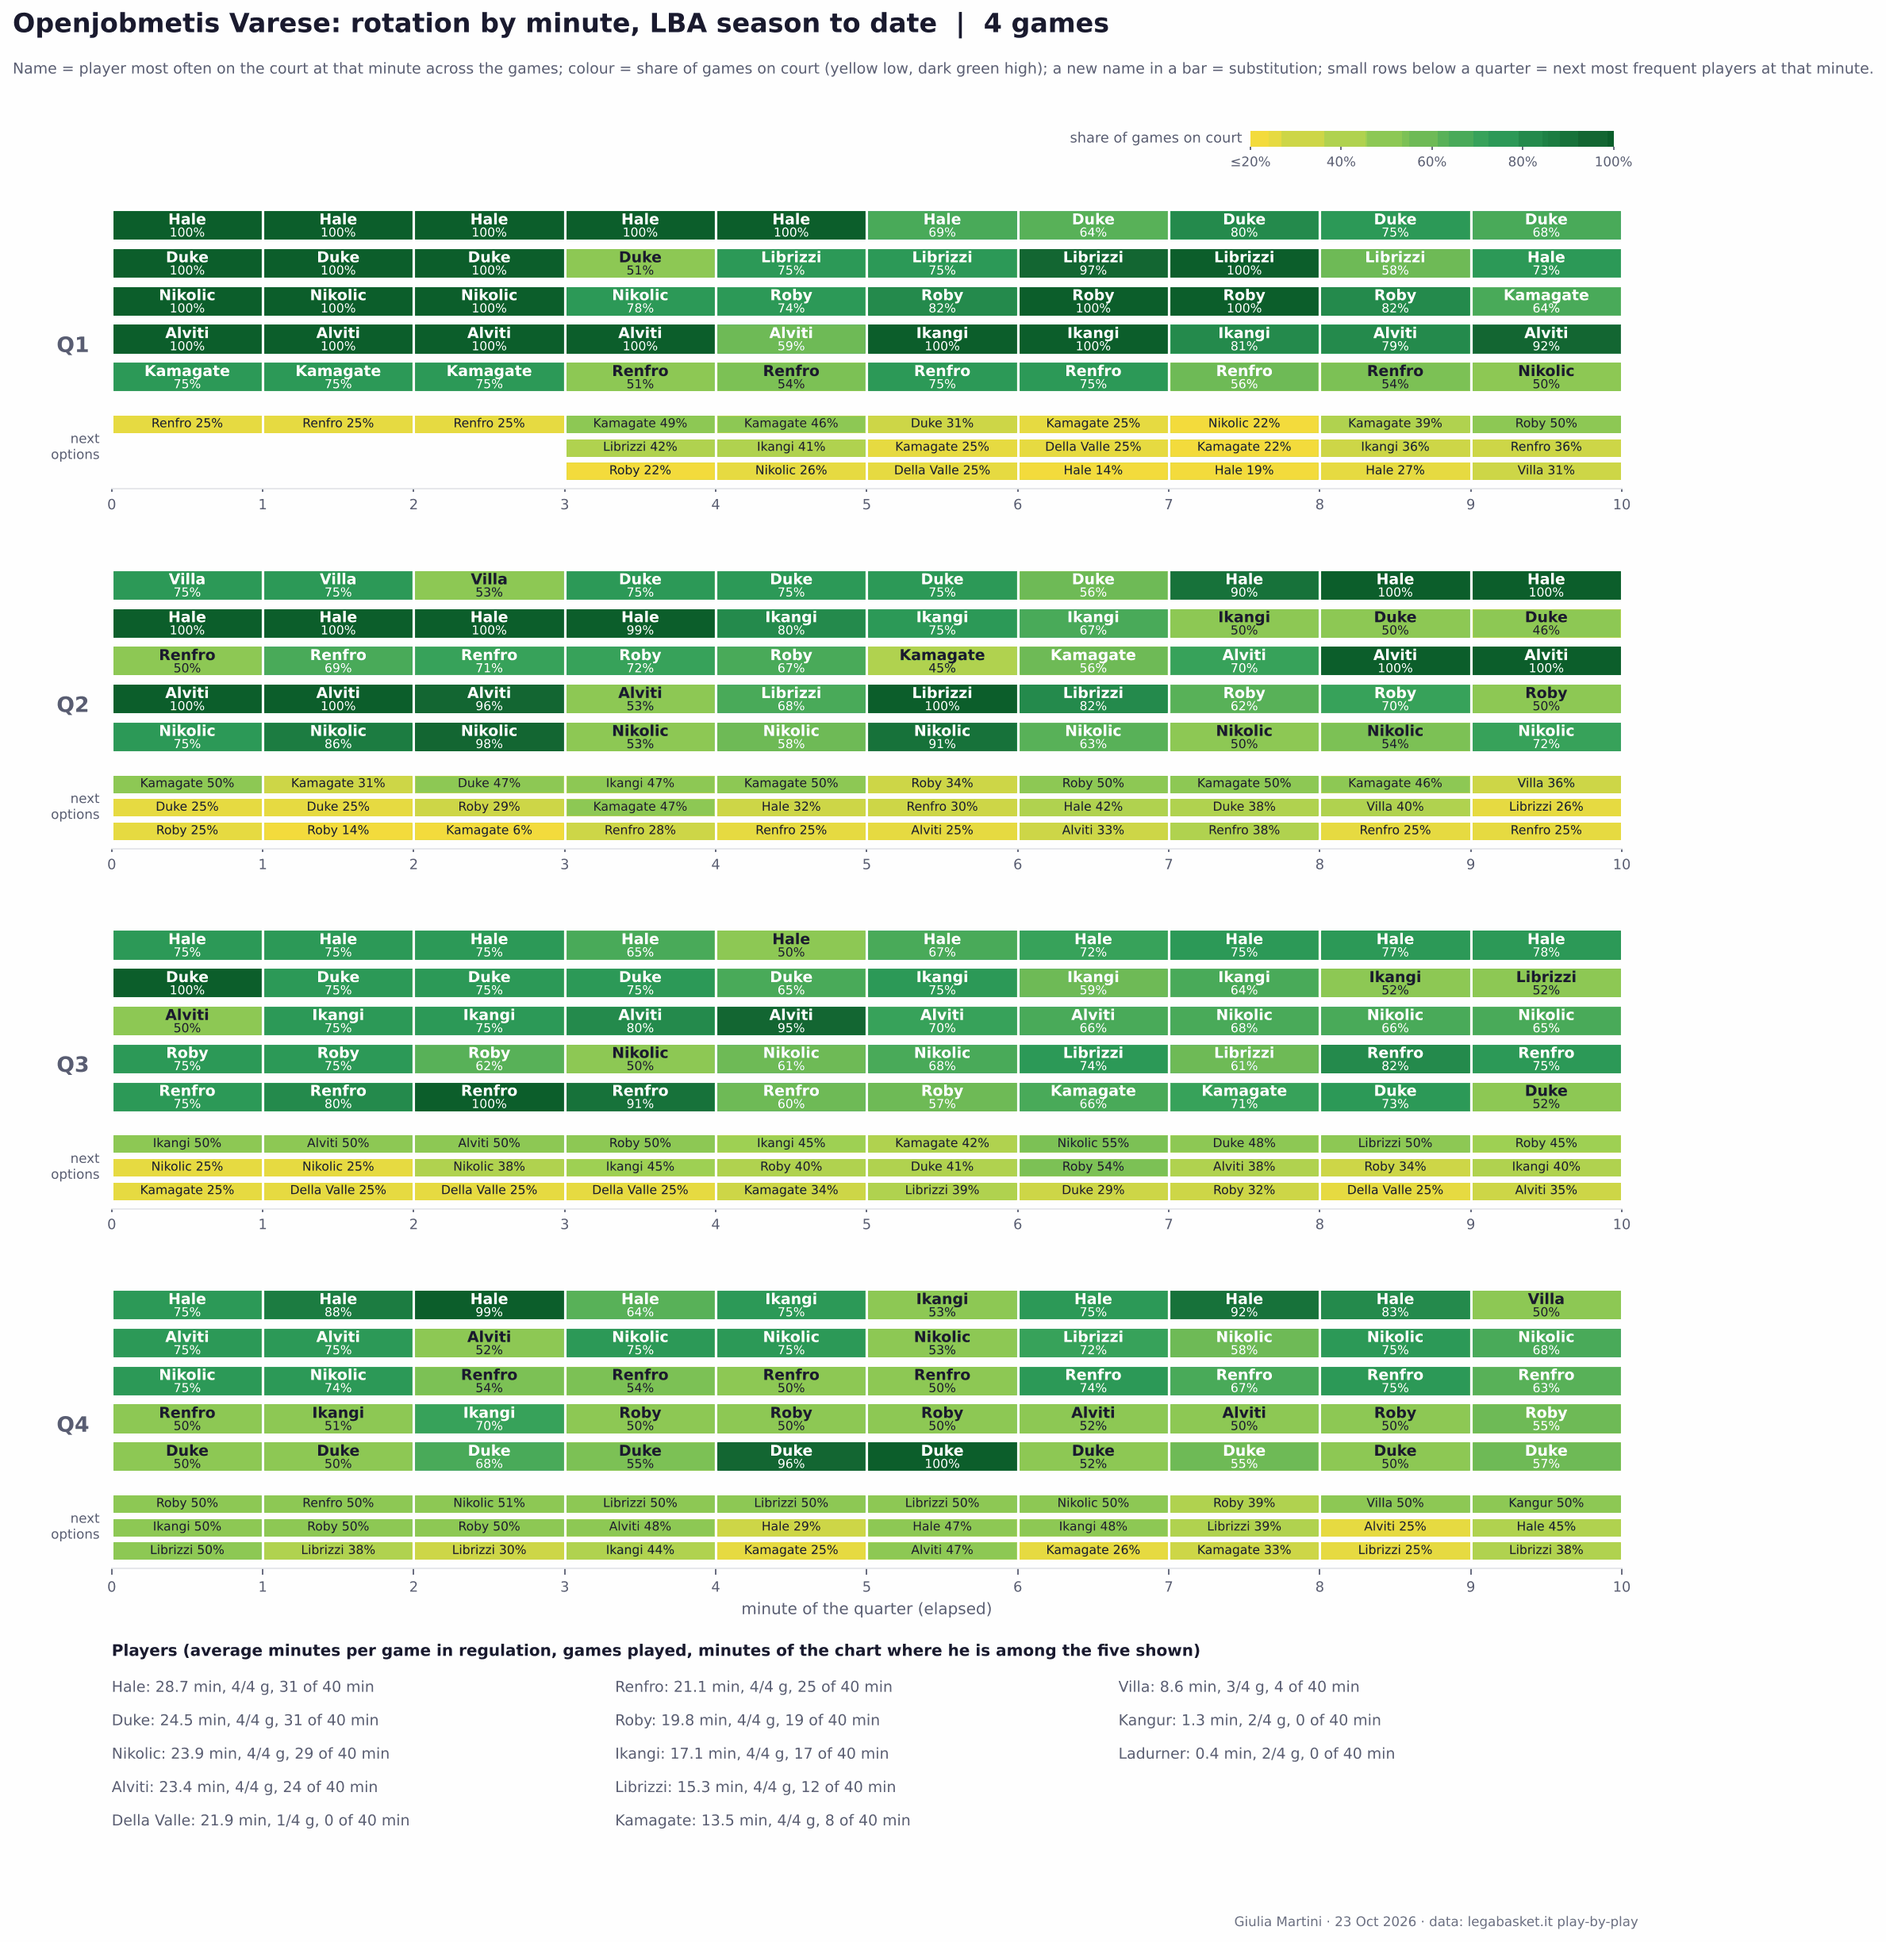
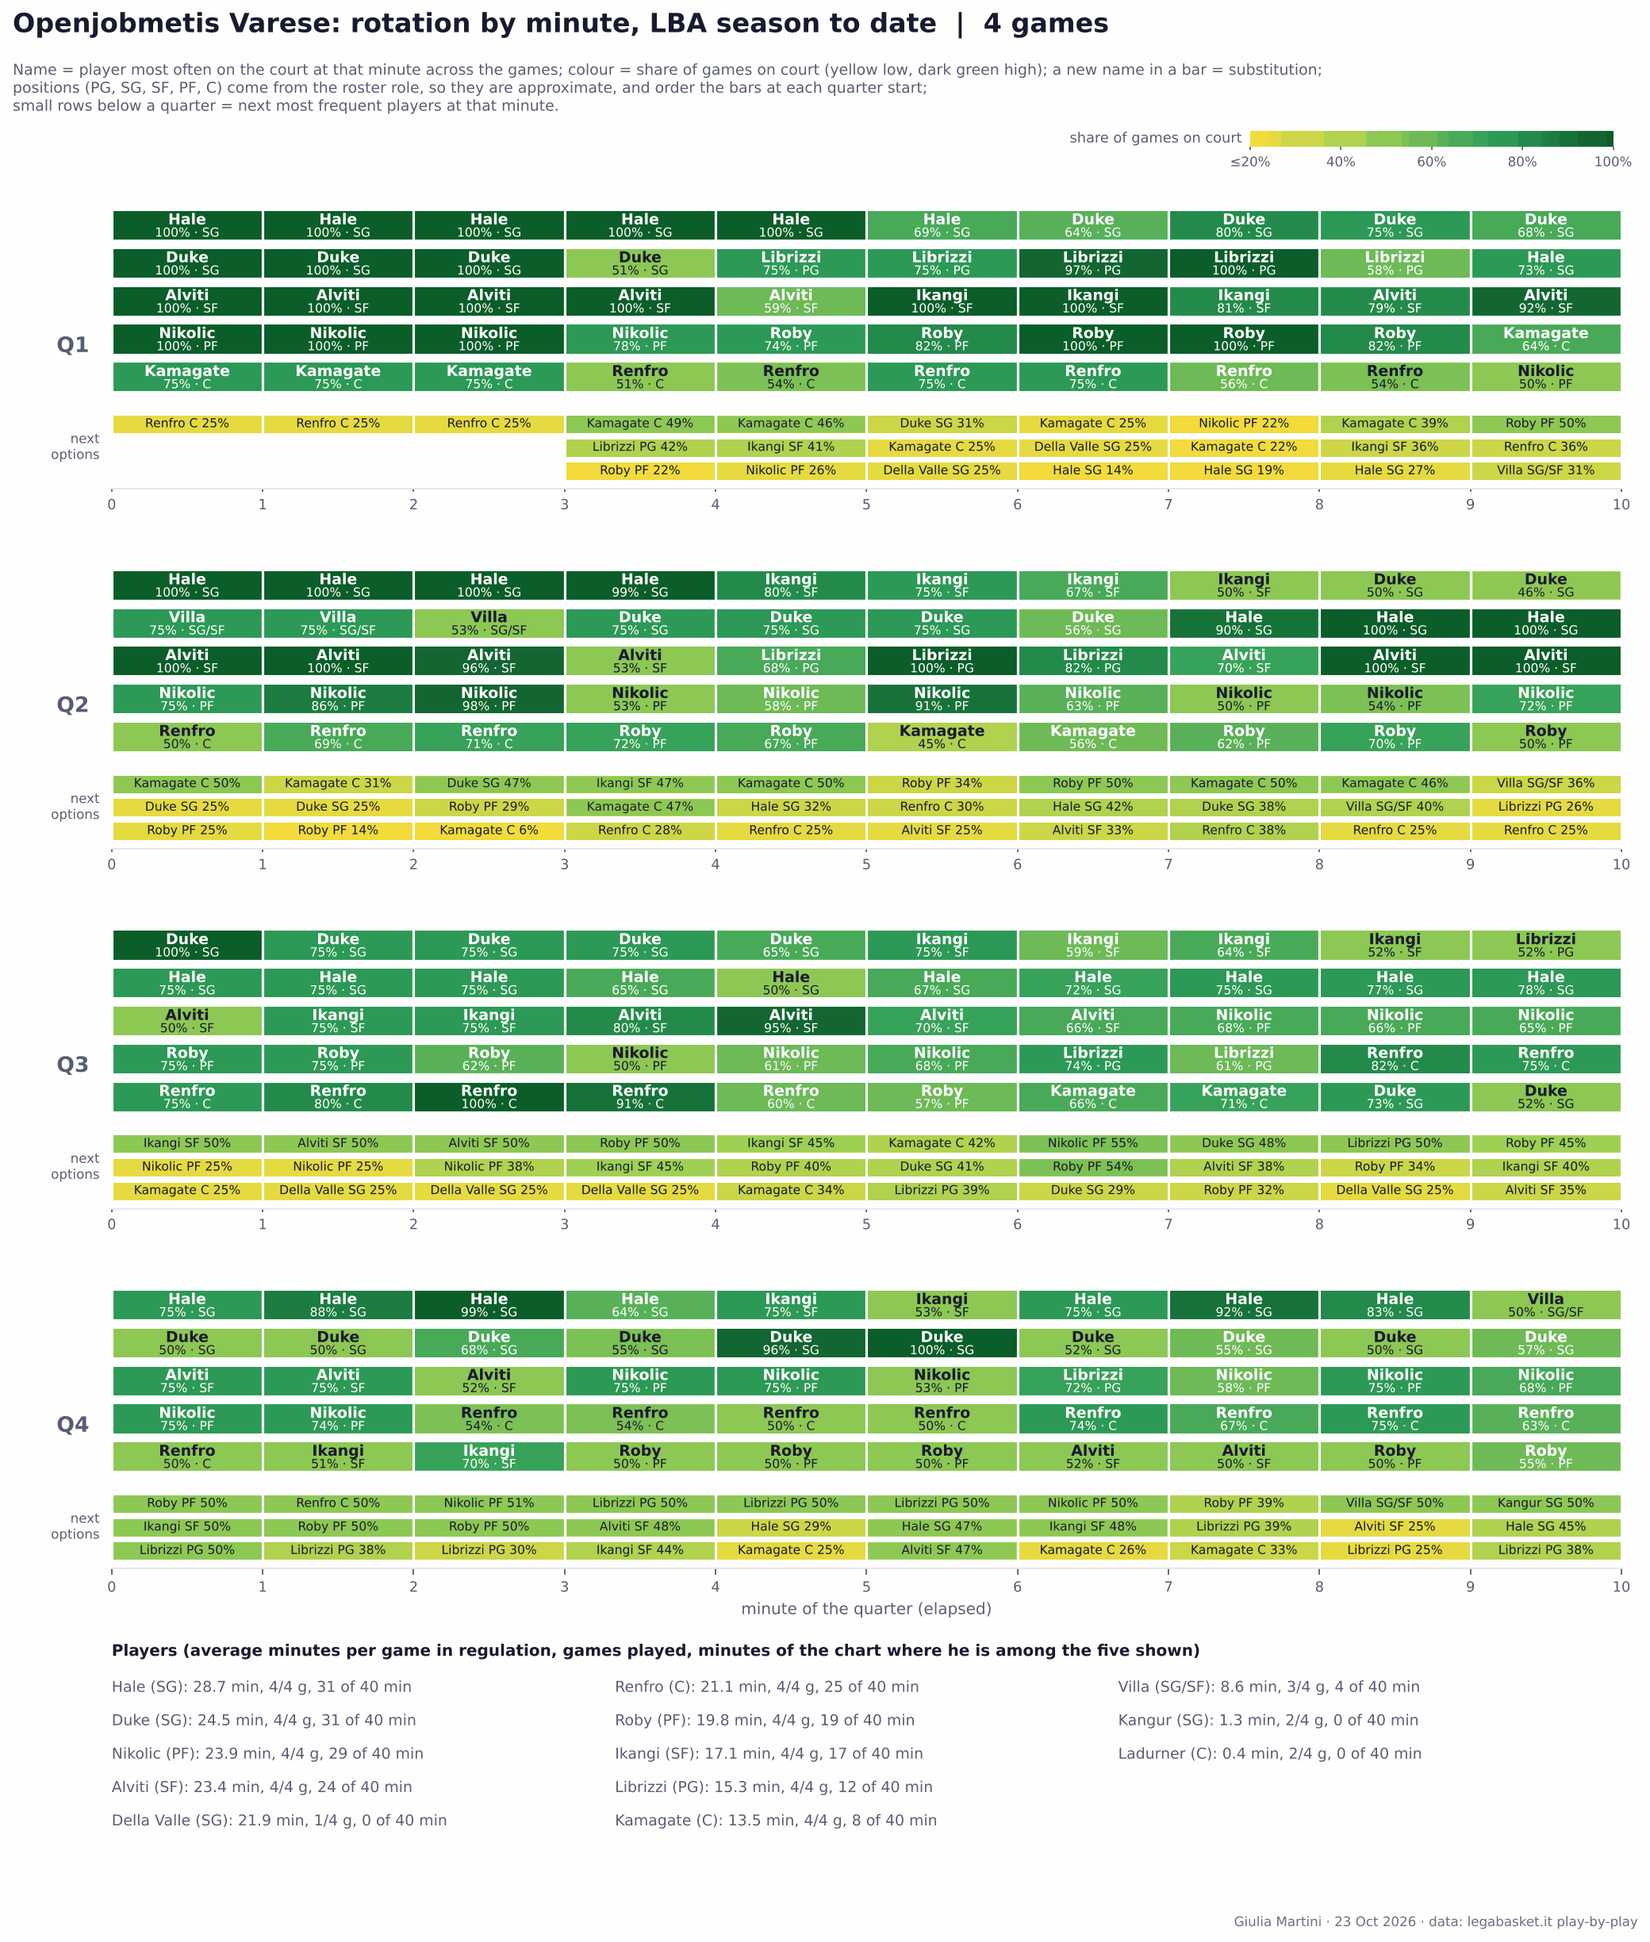
Rotation chart: show positions and order the bars PG-SG-SF-PF-C at each quarter start
Claude-Session: https://claude.ai/code/session_019eaYPmq1qXWDi1N8UtmjHE

diff --git a/notebooks/rotation_report.py b/notebooks/rotation_report.py
@@ -14,6 +14,7 @@ from __future__ import annotations
 
 import argparse
 from pathlib import Path
+import unicodedata
 
 import matplotlib.pyplot as plt
 import numpy as np
@@ -24,6 +25,7 @@ from matplotlib.colors import LinearSegmentedColormap, Normalize
 import lba_style
 from game_report import PERIOD_LEN, stints
 from lba_style import SUP_KW, TEXT, TEXT2, save_fig
+from weekly_sections import ec_people
 from weekly_config import ROOT
 
 DATA = ROOT / "data"
@@ -42,9 +44,17 @@ DARK_TEXT_BELOW = 0.55                 # share under which cells are light enoug
 CELL_EDGE = "#ffffff"
 LANE_HEIGHT = 0.82
 PANEL_INCHES_PER_UNIT = 0.41           # inches per lane-height unit of a quarter panel
+OPTION_LONG_LABEL = 22                 # option labels at least this long get a smaller font
 OPTIONS = 3                            # default number of next-most-frequent players shown under each minute
 OPTION_GAP, OPTION_STEP, OPTION_HEIGHT = 0.3, 0.62, 0.52   # lane-height units: gap under the lanes, row pitch, cell height
 FIG_WIDTH = 13
+POSITIONS = ["PG", "SG", "SF", "PF", "C"]   # order of the bars at the start of every quarter
+# The data only has coarse roles (LBA: Playmaker, Guardia, Ala, Centro and mixes; EuroCup: Guard, Forward, Center),
+# so the five positions are an approximation: an "Ala"/Forward is a PF from this height, a EuroCup Guard a PG below the other one.
+LBA_ROLE = {"Playmaker": "PG", "Play/Guardia": "PG/SG", "Guardia": "SG", "Guardia/Ala": "SG/SF", "Ala/Centro": "PF/C", "Centro": "C"}
+EC_ROLE = {"Center": "C"}
+FORWARD_PF_FROM_CM = 203               # "Ala" / "Forward" at least this tall is a PF, shorter a SF
+GUARD_PG_BELOW_CM = 190                # EuroCup "Guard" shorter than this is a PG, taller a SG
 LIST_COLUMNS = 3                       # columns of the player list under the chart
 
 
@@ -78,17 +88,65 @@ def minute_presence(box: pd.DataFrame, pbp: pd.DataFrame, team: str) -> tuple[pd
     return share, avg, n
 
 
-def assign_lanes(share: pd.DataFrame) -> list[list[tuple[str, float]]]:
+def position_rank(label: str | None) -> int:
+    """Sort key of a position label ("PG/SG" sorts as PG); players without a position go last."""
+    return POSITIONS.index(label.split("/")[0]) if label else len(POSITIONS)
+
+
+def load_positions(data: Path, team: str, competition: str, players: list[str]) -> dict[str, str]:
+    """Position label (PG, SG, SF, PF, C or a mix such as "PG/SG") of each player, from the roster files.
+
+    Args:
+        data: Folder holding team_rosters.csv and eurocup/people.csv.
+        team: Team name as in the data.
+        competition: `LBA` or `EUROCUP_CODE`.
+        players: Surnames as the chart shows them (title case).
+
+    Returns:
+        Surname -> label; players the roster files do not cover are left out.
+    """
+    out: dict[str, str] = {}
+    if competition == LBA:
+        r = pd.read_csv(data / "team_rosters.csv")
+        r = r[r.team == team].assign(key=lambda d: d.surname.str.title()).drop_duplicates("key").set_index("key")
+        for p in players:
+            if p in r.index:
+                role, ht = r.loc[p, "role"], r.loc[p, "height_cm"]
+                if role == "Ala":
+                    out[p] = "PF" if pd.notna(ht) and ht >= FORWARD_PF_FROM_CM else "SF"
+                elif role in LBA_ROLE:
+                    out[p] = LBA_ROLE[role]
+    else:
+        ec = ec_people(data, team)
+        for p in players:
+            norm = unicodedata.normalize("NFKD", p).encode("ascii", "ignore").decode().lower()
+            info = ec.get(norm)
+            if not info:
+                continue
+            ht = float(info["height"]) if info["height"] else None
+            if info["pos"] == "Guard":
+                out[p] = "PG" if ht and ht < GUARD_PG_BELOW_CM else "SG"
+            elif info["pos"] == "Forward":
+                out[p] = "PF" if ht and ht >= FORWARD_PF_FROM_CM else "SF"
+            elif info["pos"] in EC_ROLE:
+                out[p] = EC_ROLE[info["pos"]]
+    return out
+
+
+def assign_lanes(share: pd.DataFrame, positions: dict[str, str] | None = None) -> list[list[tuple[str, float]]]:
     """For each minute, five (player, share) pairs in lane order.
 
     The five players with the highest share are picked; anyone who was in the top five the minute before
     keeps his lane, newcomers take the free lanes (highest share first), so a name change in a lane is a switch.
+    At the first minute of every quarter the five are instead ordered by position (PG, SG, SF, PF, C) when `positions` is given.
     """
     tie_break = share.sum(axis=1)   # equal shares: the player with more minutes overall goes first
     prev: list[str | None] = [None] * LANES
     out = []
-    for m in share.columns:
+    for i, m in enumerate(share.columns):
         top = share[m].to_frame("s").assign(t=tie_break).sort_values(["s", "t"], ascending=False).head(LANES).index.tolist()
+        if positions is not None and i % MINUTES_PER_QUARTER == 0:
+            prev = sorted(top, key=lambda p: (position_rank(positions.get(p)), top.index(p)))
         lanes: list[str | None] = [p if p in top else None for p in prev]
         for p in (p for p in top if p not in lanes):
             lanes[lanes.index(None)] = p
@@ -112,7 +170,8 @@ def text_color(value: float) -> str:
     return TEXT if value < DARK_TEXT_BELOW else "#ffffff"
 
 
-def fig_rotation(share: pd.DataFrame, avg: pd.DataFrame, n_games: int, team: str, league: str, stamp: str, out: Path, options: int = OPTIONS) -> Path:
+def fig_rotation(share: pd.DataFrame, avg: pd.DataFrame, n_games: int, team: str, league: str, stamp: str, out: Path, options: int = OPTIONS,
+                 positions: dict[str, str] | None = None) -> Path:
     """Save the rotation chart of `team` into `out` and return its path.
 
     Args:
@@ -124,8 +183,10 @@ def fig_rotation(share: pd.DataFrame, avg: pd.DataFrame, n_games: int, team: str
         stamp: Period description for the title, e.g. "season to date".
         out: Folder that receives the PNG.
         options: Next-most-frequent players listed under each minute (0 = none).
+        positions: Surname -> position label from `load_positions`; shown next to the names and used to order the bars at each quarter start.
     """
-    lanes = assign_lanes(share)
+    positions = positions or {}
+    lanes = assign_lanes(share, positions)
     nxt = next_options(share, lanes, options)
     shown = sorted(share.index)
     minutes_shown = {p: sum(p == q for minute in lanes for q, _ in minute) for p in shown}   # minutes among the top five
@@ -145,11 +206,12 @@ def fig_rotation(share: pd.DataFrame, avg: pd.DataFrame, n_games: int, team: str
             for lane, (player, value) in enumerate(lanes[q * MINUTES_PER_QUARTER + k]):
                 ax.barh(lane, 1, left=k, height=LANE_HEIGHT, color=CMAP(norm(value)), edgecolor=CELL_EDGE, linewidth=1.4)
                 ax.text(k + 0.5, lane - 0.12, player, ha="center", va="center", fontsize=8.5, fontweight="bold", color=text_color(value))
-                ax.text(k + 0.5, lane + 0.22, f"{value:.0%}", ha="center", va="center", fontsize=7, color=text_color(value))
+                ax.text(k + 0.5, lane + 0.22, f"{value:.0%}" + (f" · {positions[player]}" if player in positions else ""), ha="center", va="center", fontsize=7, color=text_color(value))
             for i, (player, value) in enumerate(nxt[q * MINUTES_PER_QUARTER + k]):
                 y = LANES + OPTION_GAP + i * OPTION_STEP - 0.05
                 ax.barh(y, 1, left=k, height=OPTION_HEIGHT, color=CMAP(norm(value)), edgecolor=CELL_EDGE, linewidth=1.4)
-                ax.text(k + 0.5, y, f"{player} {value:.0%}", ha="center", va="center", fontsize=7, color=text_color(value))
+                label = f"{player} {positions[player] + ' ' if player in positions else ''}{value:.0%}"
+                ax.text(k + 0.5, y, label, ha="center", va="center", fontsize=7 if len(label) < OPTION_LONG_LABEL else 6, color=text_color(value))
         if options:
             ax.text(-0.08, LANES + OPTION_GAP + (options - 1) * OPTION_STEP / 2 - 0.05, "next\noptions", ha="right", va="center", fontsize=7.5, color=TEXT2)
         ax.set_xlim(0, MINUTES_PER_QUARTER); ax.set_ylim(bottom - 0.2, -0.55)
@@ -174,12 +236,14 @@ def fig_rotation(share: pd.DataFrame, avg: pd.DataFrame, n_games: int, team: str
     for i, (player, r) in enumerate(names.iterrows()):
         col, row = divmod(i, rows)
         lax.text(col / LIST_COLUMNS, 0.82 - row * (0.82 / max(rows, 1)),
-                 f"{player}: {r.avg_min:.1f} min, {int(r.games)}/{n_games} g, {minutes_shown.get(player, 0)} of {QUARTERS * MINUTES_PER_QUARTER} min",
+                 f"{player}{' (' + positions[player] + ')' if player in positions else ''}: {r.avg_min:.1f} min, {int(r.games)}/{n_games} g, {minutes_shown.get(player, 0)} of {QUARTERS * MINUTES_PER_QUARTER} min",
                  fontsize=8.5, color=TEXT2, va="top", transform=lax.transAxes)
 
     fig.suptitle(f"{team}: rotation by minute, {league} {stamp}  |  {n_games} games", x=0.01, ha="left", y=0.985, **SUP_KW)
-    fig.text(0.01, 0.955, "Name = player most often on the court at that minute across the games; colour = share of games on court "
-             "(yellow low, dark green high); a new name in a bar = substitution; small rows below a quarter = next most frequent players at that minute.", fontsize=8.5, color=TEXT2, va="center")
+    fig.text(0.01, 0.945, "Name = player most often on the court at that minute across the games; colour = share of games on court "
+             "(yellow low, dark green high); a new name in a bar = substitution;\n"
+             "positions (PG, SG, SF, PF, C) come from the roster role, so they are approximate, and order the bars at each quarter start;\n"
+             "small rows below a quarter = next most frequent players at that minute.", fontsize=8.5, color=TEXT2, va="center")
     path = out / f"rotation_{team.replace(' ', '_')}_{league.replace(' ', '')}.png"
     save_fig(fig, path); plt.close(fig)
     return path
@@ -215,7 +279,8 @@ def main() -> None:
     for team in a.team:
         share, avg, n_games = minute_presence(box, pbp, team)
         print(f"\n=== {team}: {n_games} {league} games ===")
-        lanes = assign_lanes(share)
+        positions = load_positions(Path(a.data), team, a.competition, list(share.index))
+        lanes = assign_lanes(share, positions)
         nxt = next_options(share, lanes, a.options)
         for q in range(QUARTERS):
             minute = lanes[q * MINUTES_PER_QUARTER:(q + 1) * MINUTES_PER_QUARTER]
@@ -224,7 +289,7 @@ def main() -> None:
                 print("  " + " | ".join(f"{m[lane][0]:>10} {m[lane][1]:>4.0%}" for m in minute))
             for i in range(a.options):
                 print("  next " + " | ".join(f"{(o[i][0] + ' ' + format(o[i][1], '.0%')) if len(o) > i else '':>10}" for o in nxt[q * MINUTES_PER_QUARTER:(q + 1) * MINUTES_PER_QUARTER]))
-        print(fig_rotation(share, avg, n_games, team, league, stamp, out, a.options))
+        print(fig_rotation(share, avg, n_games, team, league, stamp, out, a.options, positions))
 
 
 if __name__ == "__main__":
